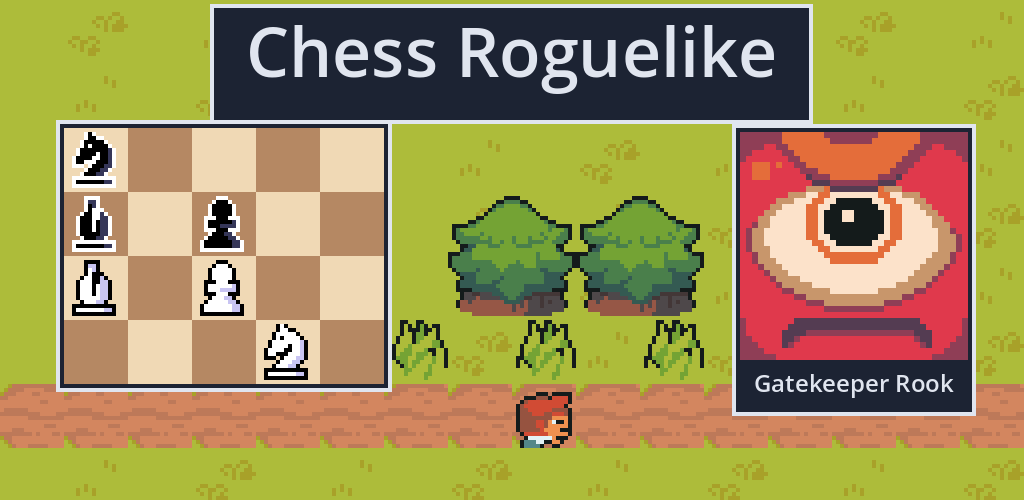
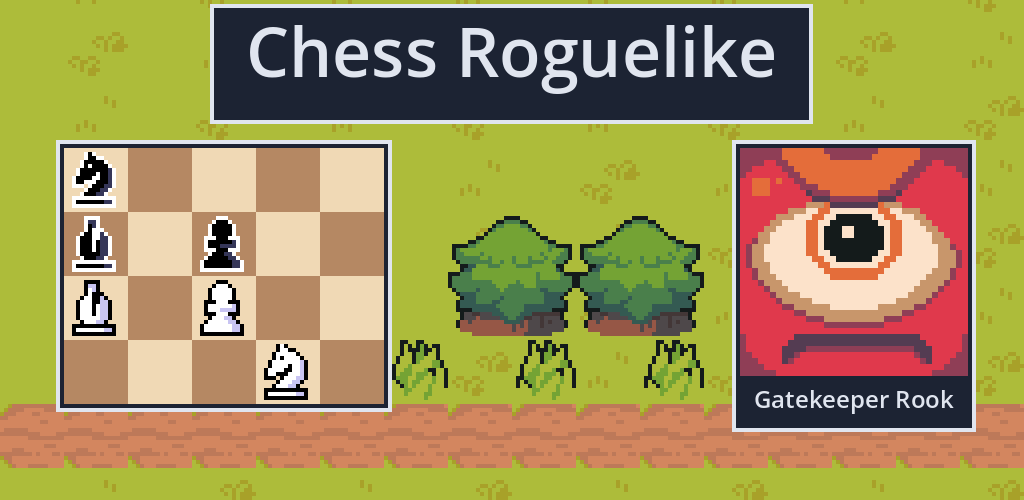
docs: correct the listing's potion claim and clean up the feature graphic

diff --git a/tools/store/test_listing.py b/tools/store/test_listing.py
@@ -100,10 +100,29 @@ class ListingTextsTest(unittest.TestCase):
 
     def test_listings_carry_no_donation_link(self):
         for locale in LOCALES:
+            for name in ["title.txt", "short_description.txt", "full_description.txt"]:
+                with self.subTest(locale=locale, name=name):
+                    text = read_text(locale, name).lower()
+                    for word in ["donat", "sponsor", "ko-fi", "patreon", "paypal", "dona "]:
+                        self.assertNotIn(word, text)
+
+    def test_a_single_potion_claim_is_not_made_without_the_drops(self):
+        # A run starts with one potion, holds up to three, and a won battle can drop another: saying "one
+        # potion" alone was false once. The claim must come with the drops.
+        claims = {"en-US": ("one potion", "drop"), "it-IT": ("una pozione", "lascia")}
+        for locale, (claim, drops) in claims.items():
             with self.subTest(locale=locale):
                 text = read_text(locale, "full_description.txt").lower()
-                for word in ["donat", "sponsor", "ko-fi", "patreon", "paypal", "dona "]:
-                    self.assertNotIn(word, text)
+                if claim in text:
+                    self.assertIn(drops, text)
+
+    def test_full_description_headings_are_not_in_capitals(self):
+        # Play's metadata policy bans excessive capitals.
+        for locale in LOCALES:
+            with self.subTest(locale=locale):
+                for line in read_text(locale, "full_description.txt").splitlines():
+                    letters = [char for char in line if char.isalpha()]
+                    self.assertFalse(len(letters) > 3 and all(char.isupper() for char in letters), line)
 
 
 class ListingGraphicsTest(unittest.TestCase):

diff --git a/store/play-console.md b/store/play-console.md
@@ -71,6 +71,8 @@ it in a private window before saving, to check that it loads.
 | Digital purchases | No | There are no purchases |
 | Access to the web | Check the exact wording in the console | The About screen has three fixed links (the source code, the privacy policy and the feedback page) that open the phone's browser. The app itself has no network access and no browser inside it. Answer by the questionnaire's own definition |
 
+- [ ] If the questionnaire asks about **fantasy or cartoon violence**, answer by its own definition: the game has
+  monsters and HP loss, and no blood or realistic violence.
 - [ ] **The rating the console computes is the source of truth.** Do not change an honest answer to get a
   different rating. If the result looks wrong, re-read the question it came from.
 
@@ -81,8 +83,9 @@ it in a private window before saving, to check that it loads.
     Families program (the console does not say whether 13-15 or 16-17 pulls an app in). Revisit it for production.
 - [ ] **Store presence, appeal to children** (the console asks this for an app whose art could attract
   children; check the exact wording in the console): answer **No**. The game is meant for adult chess players and the
-  store art is plain pixel art with no child-oriented characters. If the question's own definition of "appeals to
-  children" fits the art better than this file assumes, answer by it, truthfully.
+  store art is pixel art: chess pieces, a board and an enemy portrait. Judge by the console's own definition of
+  child-appealing content, and answer by it, truthfully. The risk is acknowledged: pixel-art monsters can read as
+  youthful (research §1.6), so keep any new store art free of young characters.
 - [ ] **Restrict Minor Access** (18+ only, optional; check the exact wording in the console). It blocks
   Google-determined minors from finding or installing the app. It matches the audience, but it is not required:
   the author decides.
@@ -167,7 +170,8 @@ Production access for a new personal account needs a closed test with at least *
 continuous days** (research §1.4). The 12 testers must not also be internal testers. After the 14 days, the
 Dashboard offers "Apply for production", with a short questionnaire. The console's questions are not known
 here, so the headings below are the topics the questionnaire is expected to cover: **check the exact wording in
-the console** and use the drafts as the starting point of each answer.
+the console** and use the drafts as the starting point of each answer. The drafts describe the build as it is today: **keep only
+what is true at the time you submit**, and cut or change any sentence that no longer is.
 
 ### About the app
 
@@ -183,7 +187,7 @@ the console** and use the drafts as the starting point of each answer.
 - [ ] **How does the app provide value to users?**
 
   > It makes chess practice into a small adventure: the player trains tactics and opening theory in a run with HP,
-  > a potion and a map, and every wrong move is explained with an arrow and a sentence, so each mistake teaches
+  > potions and a map, and every wrong move is explained with an arrow and a sentence, so each mistake teaches
   > something.
 
 - [ ] **Expected installs** (an estimate: change it if the author knows better)
